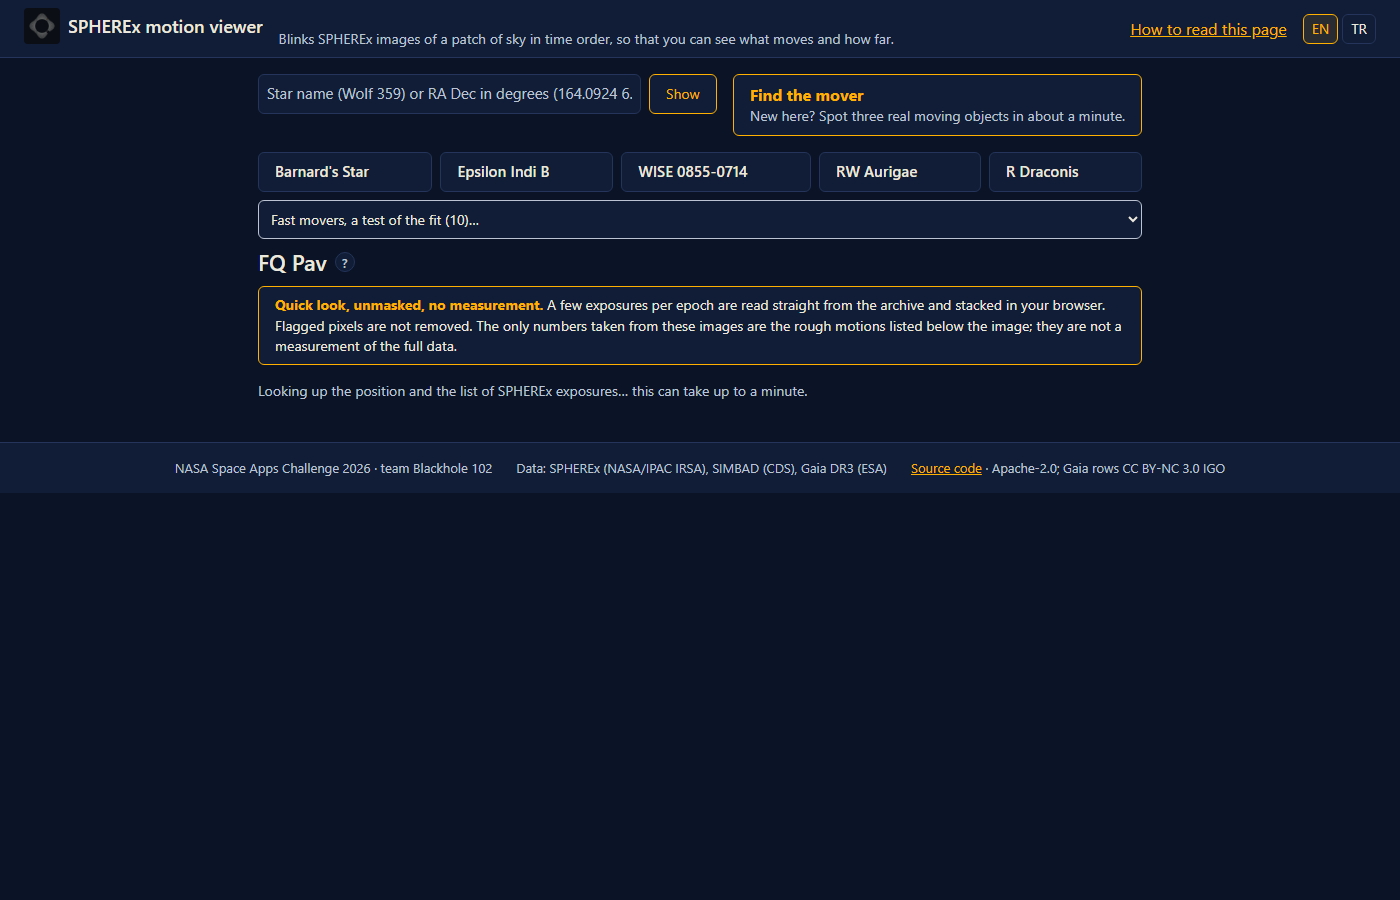
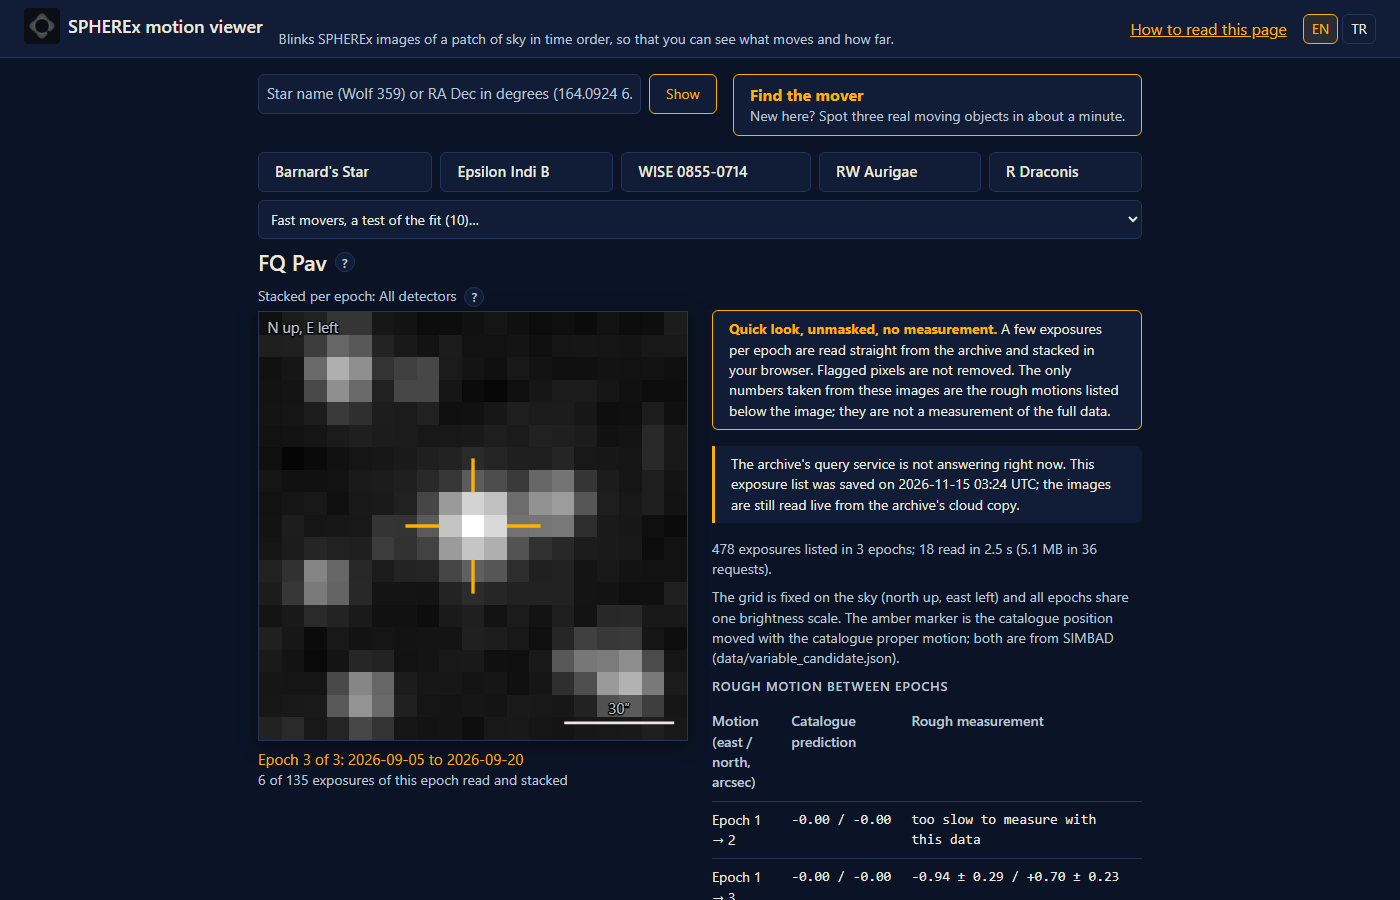
README: working quick-look screenshot (FQ Pav), game screenshot replaced by the validation tab

diff --git a/README.md b/README.md
@@ -63,9 +63,9 @@ straight from the public cloud copy of the SPHEREx archive.
 |---|---|
 | ![WISE 0855-0714](docs/screenshots/wise-0855.png) | ![Measurement tab](docs/screenshots/measurement.png) |
 
-| Find the mover (guide) | Game mode |
+| Find the mover (guide) | Validation tab |
 |---|---|
-| ![Guide](docs/screenshots/guide.png) | ![Game](docs/screenshots/game.png) |
+| ![Guide](docs/screenshots/guide.png) | ![Validation tab](docs/screenshots/validation.png) |
 
 | Quick look (FQ Pav) | Phone, Turkish |
 |---|---|

diff --git a/README.tr.md b/README.tr.md
@@ -76,9 +76,9 @@ beklenen 79,1).
 - **İngilizce ve Türkçe** metinler, "?" düğmelerinin arkasında kısa açıklamalar,
   klavye kısayolları.
 
-| Rehber | Oyun |
+| Rehber | Doğrulama sekmesi |
 |---|---|
-| ![Rehber](docs/screenshots/guide.png) | ![Oyun](docs/screenshots/game.png) |
+| ![Rehber](docs/screenshots/guide.png) | ![Doğrulama sekmesi](docs/screenshots/validation.png) |
 
 | Hızlı bakış | Telefon, Türkçe |
 |---|---|
